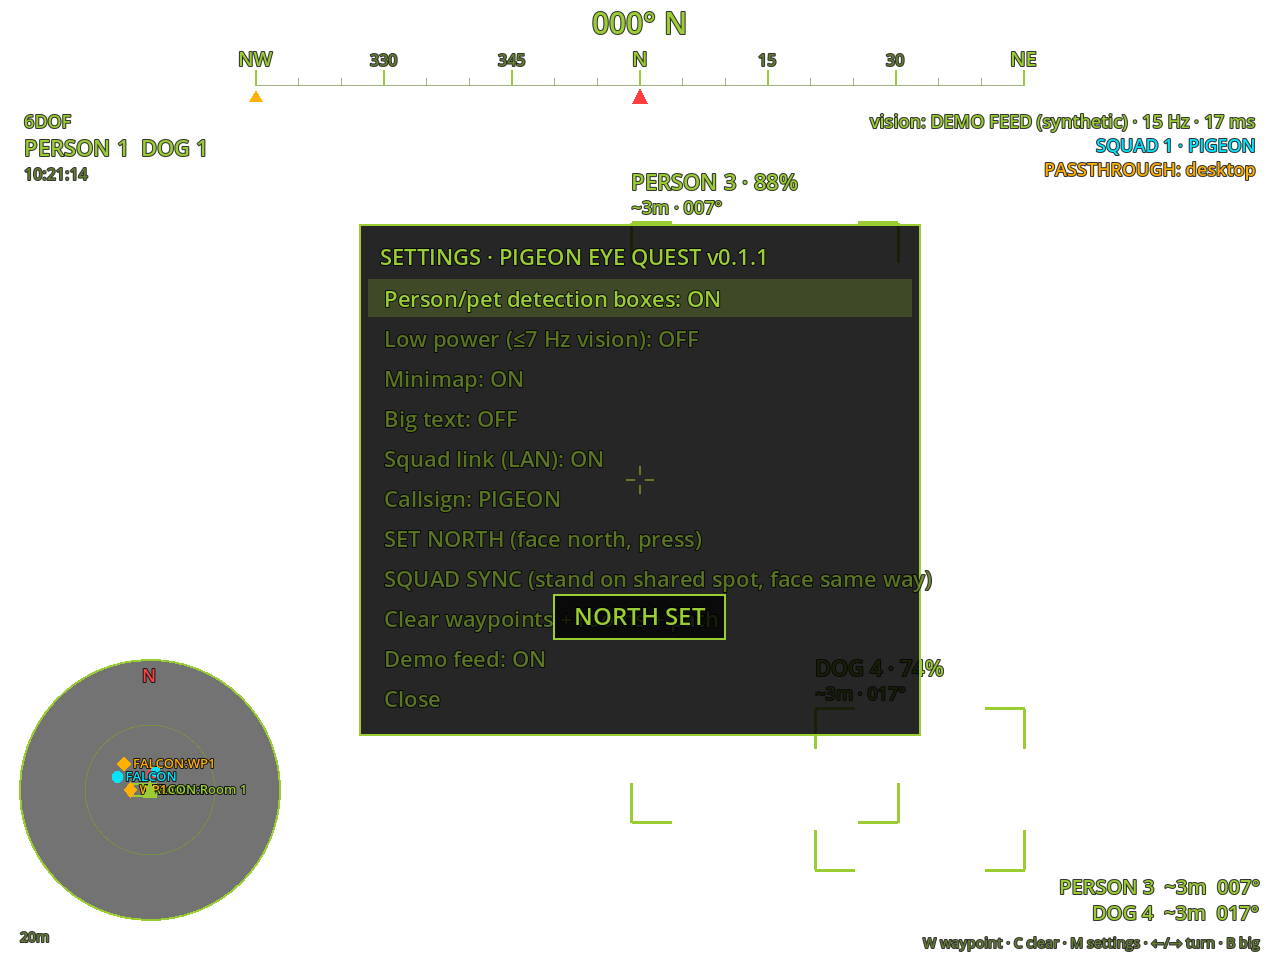
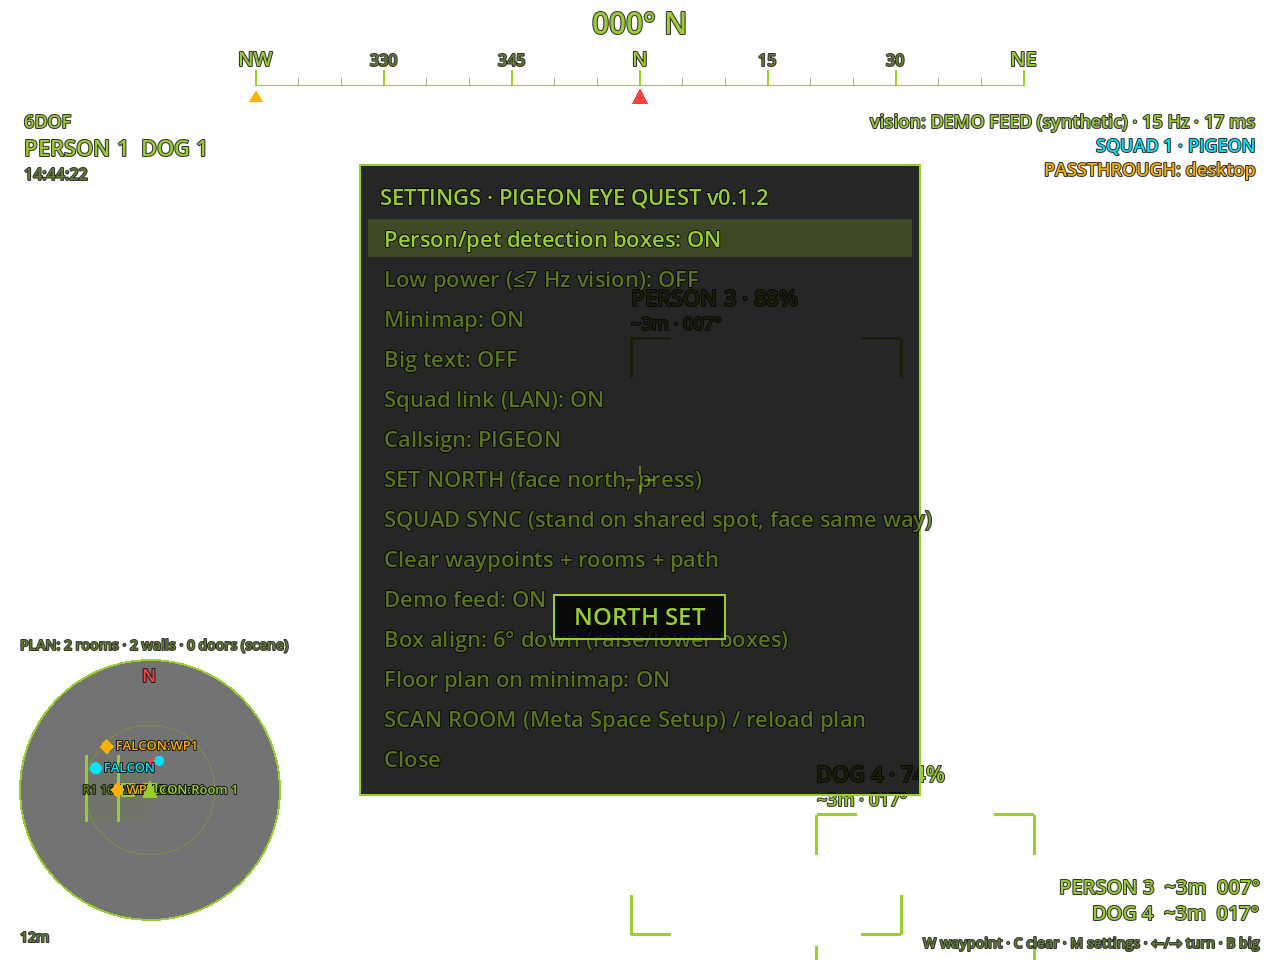
v0.1.2: eye-corrected box alignment (tunable), rough floor plan from Meta scene anchors/mesh on minimap

diff --git a/README.md b/README.md
@@ -85,3 +85,9 @@ To run the tests: `godot --headless --xr-mode off --path godot -s tests/run_test
 - Stable tracking IDs: constant-velocity tracker with IoU + centre-distance matching, 1.2 s miss tolerance, head-rotation compensation.
 - Camera plugin: starts automatically after the permission dialog, retries after camera errors, clearer status line.
 - Install: `adb uninstall com.govconnew.pigeoneyequest` (optional) then `adb install -r pigeon-eye-quest-0.1.1.apk`. Needs Horizon OS v74+ for the passthrough camera API.
+
+## v0.1.2
+- **Box alignment:** the Quest 3 RGB camera sits below/ahead of the eyes and is pitched down, so raw boxes drew too high. Boxes are now re-projected from the camera to the centre eye at the estimated distance (pitch correction + camera-offset parallax). Tunable: Settings › *Box align* (0–14° down, default 6°).
+- **Rough floor plan on the minimap:** 0.25 m grid from Meta scene data — wall / door-frame / floor anchors and the global scene mesh sliced at walking height (0.4–1.8 m) — plus the area you have walked. Walls green, doorways amber (door-frame anchors or 0.5–1.25 m wall gaps), rooms = floor regions split by walls+doorways, labelled `R1 12m²`. Status line above the minimap.
+  - **Run a space scan first** (Quest Settings › Physical space › Space setup, or Settings › *SCAN ROOM* in the app) and allow the *spatial data* permission. Without a scan the plan only shows walked area.
+  - Rough sketch for orientation only — not architectural.
